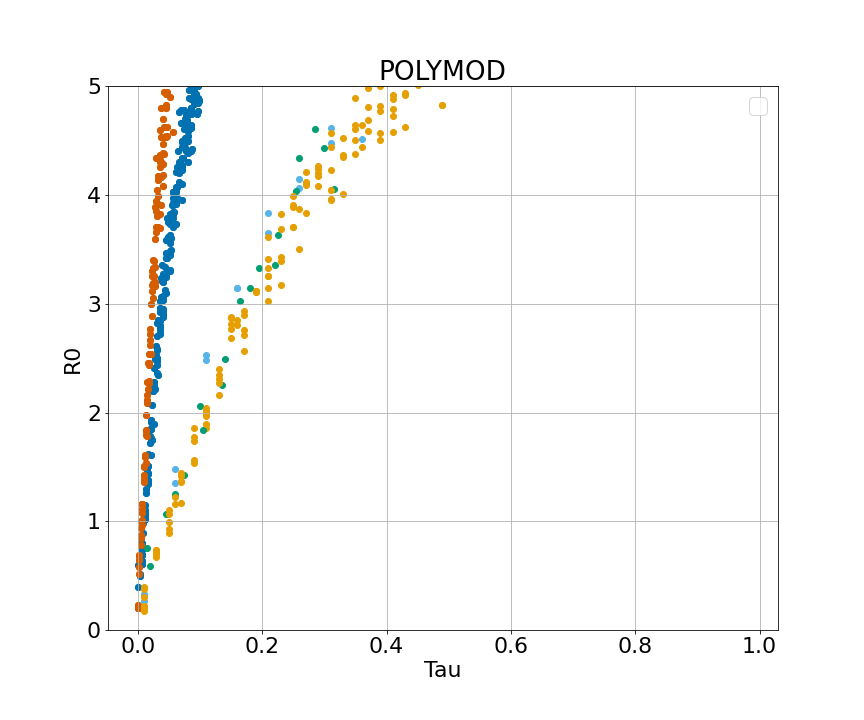
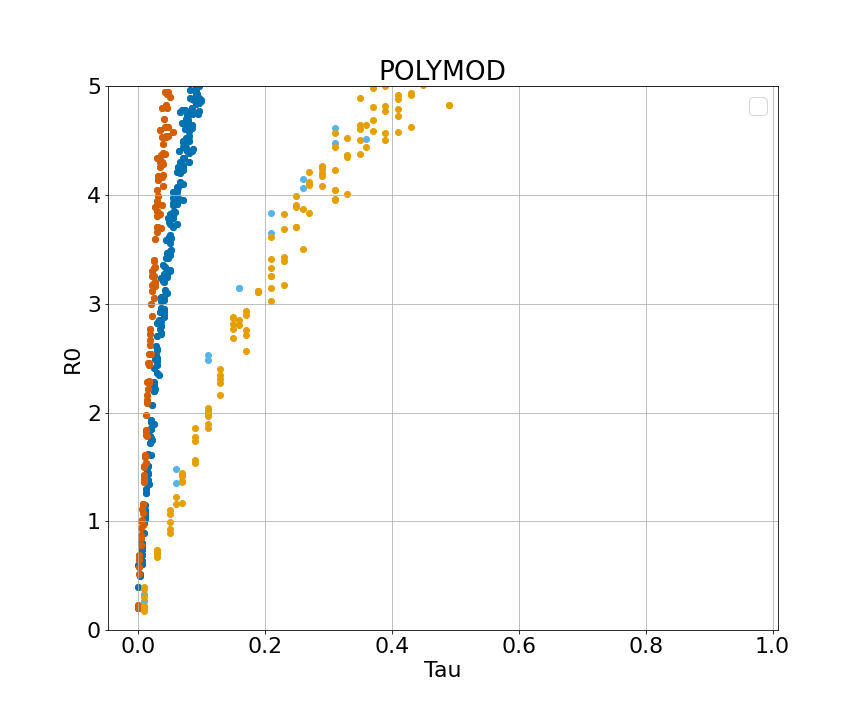
new no age sims 0

diff --git a/_final_sellke_noage_c2.py b/_final_sellke_noage_c2.py
@@ -22,9 +22,9 @@ scales = ['fit2']
 
 ## 0,1
 # taus = [[np.arange(0.001,0.07,0.002)]]
-# taus = [[np.arange(0.001,0.07,0.002)]]
+taus = [[np.arange(0.001,0.07,0.002)]]
 # taus = [[np.arange(0.001,0.05,0.002)]]
-# taus = [[10*x for x in a] for a in taus]
+taus = [[10*x for x in a] for a in taus]
 ## 2,3
 # taus = [[np.arange(0.001,0.07,0.001)]]
 # taus = [[np.arange(0.001,0.07,0.002)]]
@@ -37,14 +37,14 @@ scales = ['fit2']
 # taus = [[15*x for x in a] for a in taus]
 ## 6,7
 # taus = [[np.arange(0.001,0.07,0.001)]]
-taus = [[np.arange(0.001,0.07,0.002)]]
+# taus = [[np.arange(0.001,0.07,0.002)]]
 # taus = [[np.arange(0.001,0.05,0.002)]]
-taus = [[30*x for x in a] for a in taus]
+# taus = [[30*x for x in a] for a in taus]
 ## 8,9
 # taus = [[np.arange(0.001,0.07,0.001)]]
-taus = [[np.arange(0.001,0.07,0.002)]]
+# taus = [[np.arange(0.001,0.07,0.002)]]
 # taus = [[np.arange(0.001,0.05,0.002)]]
-taus = [[10*x for x in a] for a in taus]
+# taus = [[10*x for x in a] for a in taus]
 
 
 for i, data in enumerate(datas):
@@ -57,7 +57,7 @@ for i, data in enumerate(datas):
         #     params = np.genfromtxt(f'input_data/parameters/params_{data}_{model}.csv', delimiter=',')
         df = pd.read_csv(f'input_data/{data}.csv')
         _, contact_matrix, params = nd_p.fit_to_data(df=df,dist_type=model, buckets=buckets, save_fig=False)
-        result = nd_p.big_sellke_sims(partitions=partitions,contact_matrix=contact_matrix,network_params=params,n=n,dist_type=model,num_networks=1,iterations=iters, taus=taus[i][j],prop_infec=5/n, scaling=scales[j])
-        with open(f'../output_data/simulations/big/sellke/SIR/8_{data}_{model}_{scales[j]}_noage.json','w') as f:
+        result = nd_p.big_sellke_sims(partitions=partitions,contact_matrix=contact_matrix,network_params=params,n=n,dist_type=model,num_networks=1,iterations=iters, taus=taus[i][j],prop_infec=10/n, scaling=scales[j])
+        with open(f'../output_data/simulations/big/sellke/SIR/0_{data}_{model}_{scales[j]}_noage.json','w') as f:
             json.dump(result, f)
 print('done')

diff --git a/_final_sellke_noage_c1.py b/_final_sellke_noage_c1.py
@@ -21,10 +21,10 @@ scales = ['fit1']
 # scales = ['fit2']
 
 ## 0,1
-# taus = [[np.arange(0.001,0.07,0.002)]]
+taus = [[np.arange(0.001,0.07,0.002)]]
 # taus = [[np.arange(0.001,0.07,0.002)]]
 # taus = [[np.arange(0.001,0.05,0.002)]]
-# taus = [[10*x for x in a] for a in taus]
+taus = [[10*x for x in a] for a in taus]
 ## 2,3
 # taus = [[np.arange(0.001,0.07,0.001)]]
 # taus = [[np.arange(0.001,0.07,0.002)]]
@@ -41,10 +41,10 @@ scales = ['fit1']
 # taus = [[np.arange(0.001,0.05,0.002)]]
 # taus = [[30*x for x in a] for a in taus]
 ## 8,9
-taus = [[np.arange(0.005,0.07,0.005)]]
+# taus = [[np.arange(0.005,0.07,0.005)]]
 # taus = [[np.arange(0.001,0.07,0.002)]]
 # taus = [[np.arange(0.001,0.05,0.002)]]
-taus = [[10*x for x in a] for a in taus]
+# taus = [[10*x for x in a] for a in taus]
 
 
 
@@ -58,7 +58,7 @@ for i, data in enumerate(datas):
         #     params = np.genfromtxt(f'input_data/parameters/params_{data}_{model}.csv', delimiter=',')
         df = pd.read_csv(f'input_data/{data}.csv')
         _, contact_matrix, params = nd_p.fit_to_data(df=df,dist_type=model, buckets=buckets, save_fig=False)
-        result = nd_p.big_sellke_sims(partitions=partitions,contact_matrix=contact_matrix,network_params=params,n=n,dist_type=model,num_networks=1,iterations=iters, taus=taus[i][j],prop_infec=5/n, scaling=scales[j])
-        with open(f'../output_data/simulations/big/sellke/SIR/8_{data}_{model}_{scales[j]}_noage.json','w') as f:
+        result = nd_p.big_sellke_sims(partitions=partitions,contact_matrix=contact_matrix,network_params=params,n=n,dist_type=model,num_networks=1,iterations=iters, taus=taus[i][j],prop_infec=10/n, scaling=scales[j])
+        with open(f'../output_data/simulations/big/sellke/SIR/0_{data}_{model}_{scales[j]}_noage.json','w') as f:
             json.dump(result, f)
 print('done')

diff --git a/_final_sellke_noage_p.py b/_final_sellke_noage_p.py
@@ -23,8 +23,8 @@ scales = ['fit1']
 ## 0,1
 # taus = [[np.arange(0.001,0.07,0.002)]]
 # # taus = [[np.arange(0.001,0.07,0.002)]]
-# taus = [[np.arange(0.001,0.05,0.002)]]
-# taus = [[10*x for x in a] for a in taus]
+taus = [[np.arange(0.001,0.05,0.002)]]
+taus = [[10*x for x in a] for a in taus]
 ## 2,3
 # taus = [[np.arange(0.001,0.07,0.001)]]
 # taus = [[np.arange(0.001,0.07,0.002)]]
@@ -43,8 +43,8 @@ scales = ['fit1']
 ## 8,9
 # taus = [[np.arange(0.001,0.07,0.001)]]
 # taus = [[np.arange(0.001,0.07,0.002)]]
-taus = [[np.arange(0.001,0.05,0.002)]]
-taus = [[10*x for x in a] for a in taus]
+# taus = [[np.arange(0.001,0.05,0.002)]]
+# taus = [[10*x for x in a] for a in taus]
 
 for i, data in enumerate(datas):
     for j, model in enumerate(models):
@@ -56,7 +56,7 @@ for i, data in enumerate(datas):
         #     params = np.genfromtxt(f'input_data/parameters/params_{data}_{model}.csv', delimiter=',')
         df = pd.read_csv(f'input_data/{data}.csv')
         _, contact_matrix, params = nd_p.fit_to_data(df=df,dist_type=model, buckets=buckets, save_fig=False)
-        result = nd_p.big_sellke_sims(partitions=partitions,contact_matrix=contact_matrix,network_params=params,n=n,dist_type=model,num_networks=1,iterations=iters, taus=taus[i][j],prop_infec=5/n, scaling=scales[j])
-        with open(f'../output_data/simulations/big/sellke/SIR/8_{data}_{model}_{scales[j]}_noage.json','w') as f:
+        result = nd_p.big_sellke_sims(partitions=partitions,contact_matrix=contact_matrix,network_params=params,n=n,dist_type=model,num_networks=1,iterations=iters, taus=taus[i][j],prop_infec=10/n, scaling=scales[j])
+        with open(f'../output_data/simulations/big/sellke/SIR/0_{data}_{model}_{scales[j]}_noage.json','w') as f:
             json.dump(result, f)
 print('done')
